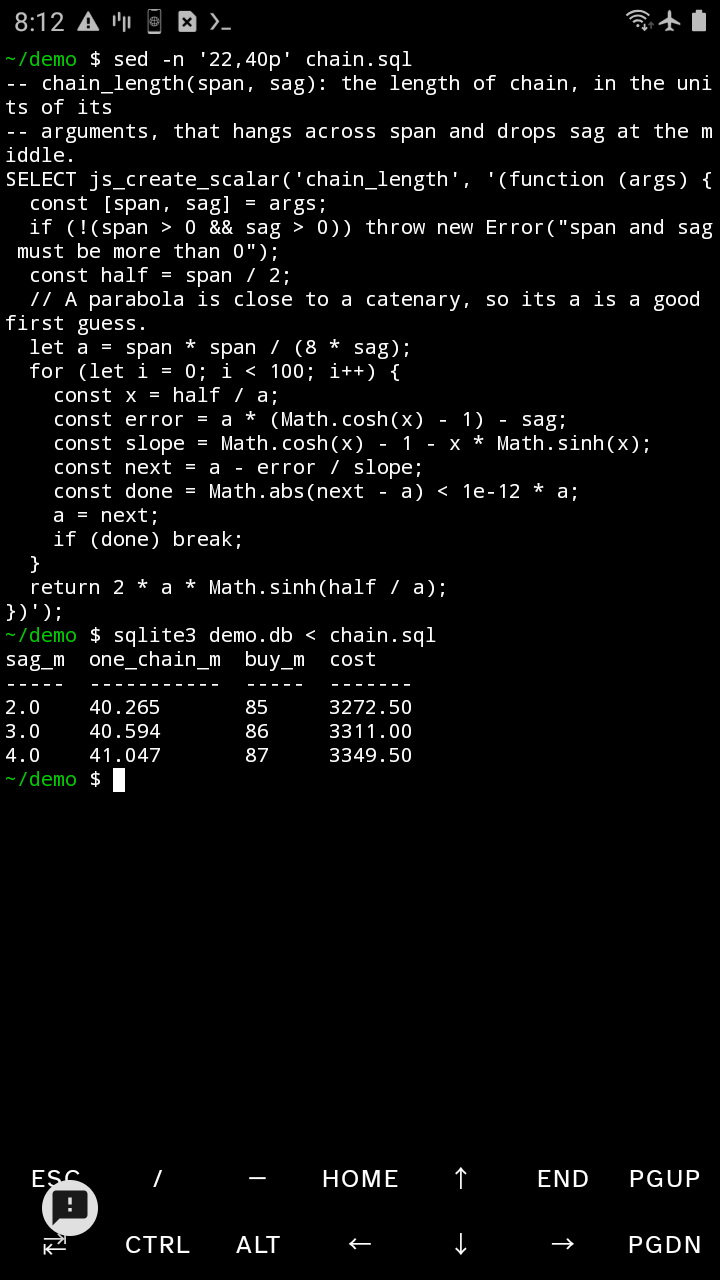
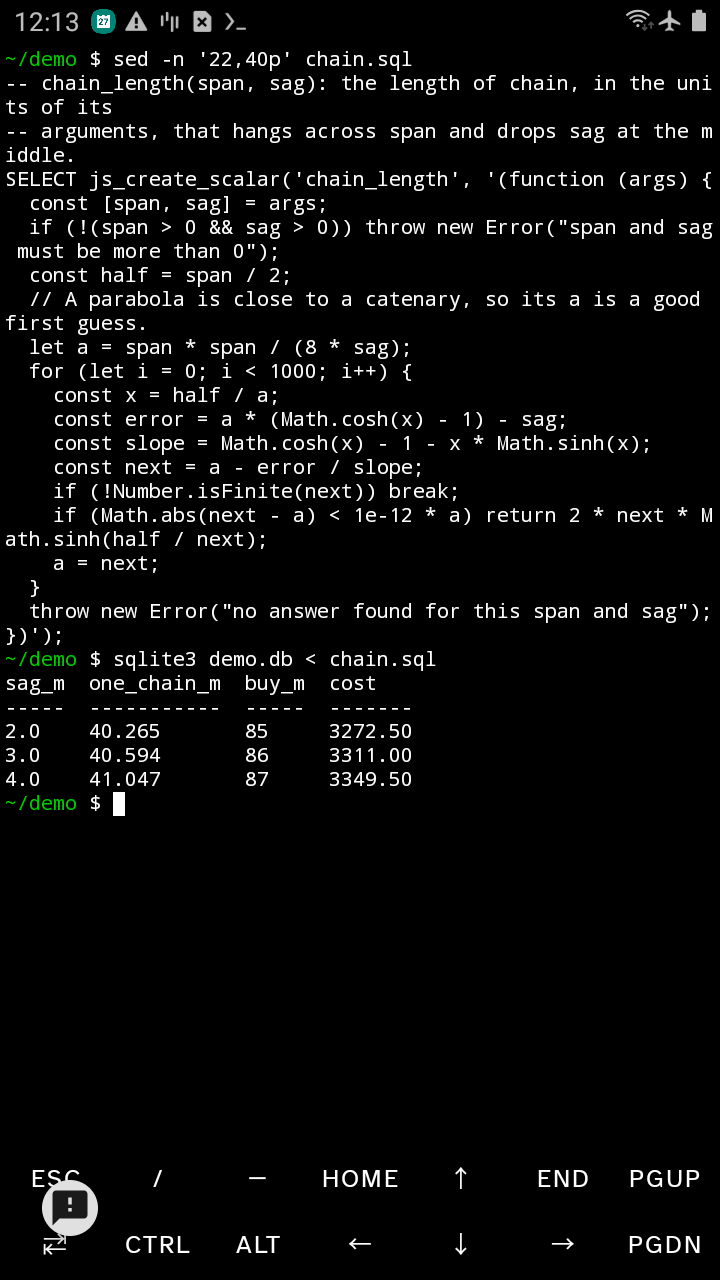
ADFA-7329: Fix CodeRabbit's ten comments on #186
Scripts:
- duplicates.sql: a NULL name gives an empty key, which the query skips;
  similarity counts letters, not UTF-16 units.
- chain.sql: Newton's method runs up to 1000 steps and reports an error
  when it finds no answer, instead of returning nonsense.
- drug-trial.sql: both tests refuse data without two groups.
- packing-lists.sql: a little slack for rounding at the weight limit;
  the trusted_schema comment says it blocks functions, not triggers.
- routes.sql: gc_point returns the place itself when both ends match.

App: the rule buttons stay off until a reload has finished and shown the
new fees, so reloads can't overlap and finish in the wrong order; a file
name that can't be read no longer reports a stored rule as not changed.

Page: the copy steps make ~/demo and copy the scripts into it, and the
trusted_schema note no longer calls it a general safety switch.

Checked on the Galaxy J7: all five scripts give the same outputs as
before (and CodeRabbit's edge cases now behave, checked on this PC);
the app builds, its buttons are off during a reload, and a changed,
looping and original rule behave as before. Scenes 2 and 4 refilmed.

Claude-Session: https://claude.ai/code/session_01Vh2DAXGyHbMzjSsi2zbrkw

diff --git a/docs/demos/javascript-in-sqlite-donyarmyengineering/index.html b/docs/demos/javascript-in-sqlite-donyarmyengineering/index.html
@@ -133,7 +133,8 @@ with the reference of every function, and <em>JavaScript in SQLite for apps</em>
 <h2 id="terminal">4. Jobs 1 to 5, in Terminal</h2>
 <p>Each job is one script, in this page's <code>terminal</code> folder. Copy that folder to the
 phone, for example into Download, then in Terminal:</p>
-<pre><code>cp -r /sdcard/Download/terminal ~/demo
+<pre><code>mkdir -p ~/demo
+cp /sdcard/Download/terminal/*.sql ~/demo/
 cd ~/demo
 sqlite3 demo.db &lt; duplicates.sql</code></pre>
 <p>Each script starts with <code>.load sqlite-js</code>, creates its functions and table, and
@@ -171,7 +172,7 @@ SELECT js_create_scalar('name_key', '(function (args) {
   // NFKD splits an accented letter into the letter and its accent, and turns
   // ligatures and full-width letters into plain ones. Only the accents of
   // Latin, Greek and Cyrillic letters (U+0300 to U+036F) are removed.
-  let s = String(args[0]).normalize("NFKD").replace(/[\u0300-\u036f]/g, "");
+  let s = (args[0] ?? "").toString().normalize("NFKD").replace(/[\u0300-\u036f]/g, "");
   // Letters with no accent to remove, written the way they are usually typed.
   const plain = { "ø": "o", "ł": "l", "ß": "ss", "æ": "ae", "œ": "oe", "đ": "d" };
   s = s.toLowerCase().replace(/[øłßæœđ]/g, (c) =&gt; plain[c]);
@@ -185,7 +186,7 @@ SELECT js_create_scalar('name_key', '(function (args) {
 -- must be added, removed or changed to turn one into the other (the edit
 -- distance), down to 0.
 SELECT js_create_scalar('similarity', '(function (args) {
-  const [a, b] = args;
+  const [a, b] = args.map((s) =&gt; Array.from(s)); // letters, not UTF-16 units
   const row = Array.from({ length: b.length + 1 }, (_, j) =&gt; j);
   for (let i = 1; i &lt;= a.length; i++) {
     let diagonal = row[0];
@@ -271,10 +272,10 @@ run with <code>sqlite3 packing.db &lt; packing-lists.sql</code></p>
 
 .load sqlite-js
 
--- The sqlite3 command turns trusted_schema off, so that a database you got
--- from someone else can't run code in its triggers. Then a trigger stored in
--- a database can't call functions like the one below. This database is your
--- own, so allow it.
+-- The sqlite3 command turns trusted_schema off, so that the triggers and
+-- views of a database you got from someone else can't call functions like
+-- the one below (plain SQL in them still runs). This database is your own,
+-- so allow it.
 -- Every later session that writes to the shipments table needs this line,
 -- .load sqlite-js and SELECT js_init_table(1); see the end of this file.
 PRAGMA trusted_schema = ON;
@@ -322,7 +323,7 @@ SELECT js_create_scalar('check_packing_list', '(function (args) {
     }
     total += item.qty * item.kg;
   });
-  if (total &gt; limitKg) {
+  if (total &gt; limitKg * (1 + 1e-9)) { // a little slack for rounding
     throw new Error(`The load is ${total.toFixed(1)} kg, over the limit of ${limitKg} kg.`);
   }
   return 1;
@@ -410,8 +411,9 @@ phone:</p>
     <code>The packing list has no items.</code></td></tr>
 </table>
 <p class="note">The <code>sqlite3</code> command turns <code>trusted_schema</code> off when it
-opens a database, so that a database you got from someone else can't run code in its triggers or
-views. And <code>js_init_table(1)</code> runs the code stored in the database's
+opens a database, so that the triggers and views of a database you got from someone else can't
+call functions like these. It is not a general safety switch: plain SQL in those triggers still
+runs. And <code>js_init_table(1)</code> runs the code stored in the database's
 <code>js_functions</code> table. Do both only for databases you made yourself. In an app, the
 database is the app's own, and it opens it with
 <code>SqliteJs.ENTRY_POINT_FOR_TRUSTED_DATABASE</code>; see
@@ -456,16 +458,16 @@ SELECT js_create_scalar('chain_length', '(function (args) {
   const half = span / 2;
   // A parabola is close to a catenary, so its a is a good first guess.
   let a = span * span / (8 * sag);
-  for (let i = 0; i &lt; 100; i++) {
+  for (let i = 0; i &lt; 1000; i++) {
     const x = half / a;
     const error = a * (Math.cosh(x) - 1) - sag;
     const slope = Math.cosh(x) - 1 - x * Math.sinh(x);
     const next = a - error / slope;
-    const done = Math.abs(next - a) &lt; 1e-12 * a;
+    if (!Number.isFinite(next)) break;
+    if (Math.abs(next - a) &lt; 1e-12 * a) return 2 * next * Math.sinh(half / next);
     a = next;
-    if (done) break;
   }
-  return 2 * a * Math.sinh(half / a);
+  throw new Error("no answer found for this span and sag");
 })');
 
 .output stdout
@@ -551,6 +553,9 @@ SELECT js_create_aggregate('welch_test',
       const variance = xs.reduce((sum, x) =&gt; sum + (x - mean) ** 2, 0) / (n - 1);
       return { n, mean, se2: variance / n };
     };
+    if (groups.drug.length &lt; 2 || groups.placebo.length &lt; 2) {
+      throw new Error("each group needs at least 2 patients");
+    }
     const d = describe(groups.drug);
     const p = describe(groups.placebo);
     const se2 = d.se2 + p.se2;
@@ -632,6 +637,9 @@ SELECT js_create_aggregate('permutation_p',
       });
       return drug / nDrug - placebo / nPlacebo;
     };
+    if (!isDrug.includes(true) || !isDrug.includes(false)) {
+      throw new Error("both groups need patients");
+    }
     const observed = Math.abs(difference(isDrug));
     const labels = isDrug.slice();
     let asLarge = 0;
@@ -697,7 +705,7 @@ shuffled_p
 <p>p is 0.023: if the drug did nothing, a difference this large, either way, would turn up by
 chance about 2 times in 100. Shuffling the labels 10,000 times agrees. SciPy's Welch t-test gives
 the same t, degrees of freedom and p for this data. On the phone used here, a Galaxy J7 from 2018,
-this script took 6.1 and 6.4 seconds in two runs, nearly all of it the 10,000 shuffles; each
+this script took 6.1 to 6.4 seconds in three runs, nearly all of it the 10,000 shuffles; each
 of the other scripts took less than 140 ms.</p>
 <figure>
   <img src="screenshots/5-drug-trial.png" alt="Terminal showing the group averages, the t-test and the shuffled p-value">
@@ -764,6 +772,8 @@ SELECT js_create_scalar('gc_point', '(function (args) {
   const p = toXyz(lat1, lon1);
   const q = toXyz(lat2, lon2);
   const angle = Math.acos(Math.min(1, p[0] * q[0] + p[1] * q[1] + p[2] * q[2]));
+  // The same place twice: no route to follow.
+  if (angle &lt; 1e-12) return `${args[0].toFixed(1)}, ${args[1].toFixed(1)}`;
   const a = Math.sin((1 - f) * angle) / Math.sin(angle);
   const b = Math.sin(f * angle) / Math.sin(angle);
   const [x, y, z] = [0, 1, 2].map((i) =&gt; a * p[i] + b * q[i]);
@@ -870,6 +880,7 @@ it, and tap <strong>Reload rule</strong> in the app.</p>
   <li>Closes the app's database connections, stores the rule in the database's
     <code>js_functions</code> table, and opens the database again. A connection keeps the version
     of a function it loaded when it opened, so the new rule needs new connections.</li>
+  <li>Shows the new fees. The rule buttons are off until then, so two reloads can't overlap.</li>
 </ol>
 <figure>
   <img src="screenshots/10-rule-refused.png" alt="The app saying: The rule was not changed. The rule ran for more than 2 s, so it was stopped. Does it loop forever?">
@@ -1191,31 +1202,31 @@ class MainActivity : AppCompatActivity() {
         if (prefs.getString(KEY_RULE_FILE, null) == null) {
             binding.ruleStatus.setText(R.string.choose_first)
         }
-        showFees()
+        lifecycleScope.launch { showFees() }
     }
 
     // Lists the orders with the fee from the rule stored in the database.
-    private fun showFees() {
-        binding.results.setText(R.string.working)
-        lifecycleScope.launch {
-            try {
-                val rows = withContext(Dispatchers.IO) {
-                    val orders = OrderDatabase.get(applicationContext).orders()
-                    if (orders.count() == 0) orders.insert(SAMPLE_ORDERS)
-                    OrderDatabase.withTimeLimit { orders.withFees() }
-                }
-                _binding?.results?.text = table(rows)
-            } catch (e: CancellationException) {
-                throw e
-            } catch (e: Exception) {
-                val noRule = e.message.orEmpty().contains("no such function")
-                _binding?.results?.text =
-                    if (noRule) getString(R.string.no_rule) else getString(R.string.error, e.message)
+    private suspend fun showFees() {
+        _binding?.results?.setText(R.string.working)
+        try {
+            val rows = withContext(Dispatchers.IO) {
+                val orders = OrderDatabase.get(applicationContext).orders()
+                if (orders.count() == 0) orders.insert(SAMPLE_ORDERS)
+                OrderDatabase.withTimeLimit { orders.withFees() }
             }
+            _binding?.results?.text = table(rows)
+        } catch (e: CancellationException) {
+            throw e
+        } catch (e: Exception) {
+            val noRule = e.message.orEmpty().contains("no such function")
+            _binding?.results?.text =
+                if (noRule) getString(R.string.no_rule) else getString(R.string.error, e.message)
         }
     }
 
-    // Reads the rule file again, and replaces the rule in the database if it works.
+    // Reads the rule file again, and replaces the rule in the database if it works. The rule
+    // buttons stay off until the new fees are shown, so two reloads can't overlap and finish in
+    // the wrong order.
     private fun reloadRule() {
         val file = prefs.getString(KEY_RULE_FILE, null)?.let(Uri::parse)
         if (file == null) {
@@ -1223,23 +1234,35 @@ class MainActivity : AppCompatActivity() {
             return
         }
         binding.ruleStatus.setText(R.string.working)
+        setRuleButtonsEnabled(false)
         lifecycleScope.launch {
-            val started = SystemClock.elapsedRealtime()
             try {
-                val code = withContext(Dispatchers.IO) {
-                    checkNotNull(contentResolver.openInputStream(file)) { "Can't open $file" }
-                        .bufferedReader().use { it.readText() }
+                val started = SystemClock.elapsedRealtime()
+                try {
+                    val code = withContext(Dispatchers.IO) {
+                        checkNotNull(contentResolver.openInputStream(file)) { "Can't open $file" }
+                            .bufferedReader().use { it.readText() }
+                    }
+                    OrderDatabase.replaceRule(applicationContext, code, SAMPLE_ORDERS)
+                } catch (e: CancellationException) {
+                    throw e
+                } catch (e: Exception) {
+                    _binding?.ruleStatus?.text = getString(R.string.rule_rejected, e.message)
+                    return@launch
                 }
-                OrderDatabase.replaceRule(applicationContext, code, SAMPLE_ORDERS)
+                // The rule is stored now, so nothing from here on reports it as not changed.
                 val ms = SystemClock.elapsedRealtime() - started
                 _binding?.ruleStatus?.text = getString(R.string.rule_loaded, displayName(file), ms)
                 showFees()
-            } catch (e: CancellationException) {
-                throw e
-            } catch (e: Exception) {
-                _binding?.ruleStatus?.text = getString(R.string.rule_rejected, e.message)
+            } finally {
+                setRuleButtonsEnabled(true)
             }
         }
+    }
+
+    private fun setRuleButtonsEnabled(enabled: Boolean) {
+        _binding?.reloadRule?.isEnabled = enabled
+        _binding?.chooseRule?.isEnabled = enabled
     }
 
     // A fee the rule gave no number for shows as "?", not as 0.00.
@@ -1252,10 +1275,12 @@ class MainActivity : AppCompatActivity() {
             )
         }
 
+    // The file's name, or the last part of its address when the name can't be read.
     private fun displayName(file: Uri): String =
-        contentResolver.query(file, arrayOf(OpenableColumns.DISPLAY_NAME), null, null, null)
-            ?.use { c -&gt; if (c.moveToFirst()) c.getString(0) else null }
-            ?: file.lastPathSegment.orEmpty()
+        runCatching {
+            contentResolver.query(file, arrayOf(OpenableColumns.DISPLAY_NAME), null, null, null)
+                ?.use { c -&gt; if (c.moveToFirst()) c.getString(0) else null }
+        }.getOrNull() ?: file.lastPathSegment.orEmpty()
 
     private fun showNotices() {
         val text = assets.open("NOTICES.txt").bufferedReader().use { it.readText() }
@@ -1439,7 +1464,7 @@ policy, for example, has rules about code that an app loads after it is installe
   <tr><td>Code on the Go</td><td>C-d-1124-2145, with the JavaScript in SQLite template</td></tr>
   <tr><td>Terminal packages</td><td>sqlite 3.51.2, sqlite-js 1.4.4 (quickjs-ng 0.12.1)</td></tr>
   <tr><td>Scripts</td><td>The same results on the phone and on a Linux computer; on the phone,
-    the drug trial took 6.1 and 6.4 s in two runs, the others under 140 ms</td></tr>
+    the drug trial took 6.1 to 6.4 s in three runs, the others under 140 ms</td></tr>
   <tr><td>Reload rule</td><td>72 to 265 ms in all runs: 216 ms in the video, just after the
     app started</td></tr>
   <tr><td>First build of the app</td><td>9 min 16 s</td></tr>

diff --git a/docs/demos/javascript-in-sqlite-donyarmyengineering/app/app/src/main/java/com/donyarmyengineering/deliveryfees/MainActivity.kt b/docs/demos/javascript-in-sqlite-donyarmyengineering/app/app/src/main/java/com/donyarmyengineering/deliveryfees/MainActivity.kt
@@ -56,31 +56,31 @@ class MainActivity : AppCompatActivity() {
         if (prefs.getString(KEY_RULE_FILE, null) == null) {
             binding.ruleStatus.setText(R.string.choose_first)
         }
-        showFees()
+        lifecycleScope.launch { showFees() }
     }
 
     // Lists the orders with the fee from the rule stored in the database.
-    private fun showFees() {
-        binding.results.setText(R.string.working)
-        lifecycleScope.launch {
-            try {
-                val rows = withContext(Dispatchers.IO) {
-                    val orders = OrderDatabase.get(applicationContext).orders()
-                    if (orders.count() == 0) orders.insert(SAMPLE_ORDERS)
-                    OrderDatabase.withTimeLimit { orders.withFees() }
-                }
-                _binding?.results?.text = table(rows)
-            } catch (e: CancellationException) {
-                throw e
-            } catch (e: Exception) {
-                val noRule = e.message.orEmpty().contains("no such function")
-                _binding?.results?.text =
-                    if (noRule) getString(R.string.no_rule) else getString(R.string.error, e.message)
+    private suspend fun showFees() {
+        _binding?.results?.setText(R.string.working)
+        try {
+            val rows = withContext(Dispatchers.IO) {
+                val orders = OrderDatabase.get(applicationContext).orders()
+                if (orders.count() == 0) orders.insert(SAMPLE_ORDERS)
+                OrderDatabase.withTimeLimit { orders.withFees() }
             }
+            _binding?.results?.text = table(rows)
+        } catch (e: CancellationException) {
+            throw e
+        } catch (e: Exception) {
+            val noRule = e.message.orEmpty().contains("no such function")
+            _binding?.results?.text =
+                if (noRule) getString(R.string.no_rule) else getString(R.string.error, e.message)
         }
     }
 
-    // Reads the rule file again, and replaces the rule in the database if it works.
+    // Reads the rule file again, and replaces the rule in the database if it works. The rule
+    // buttons stay off until the new fees are shown, so two reloads can't overlap and finish in
+    // the wrong order.
     private fun reloadRule() {
         val file = prefs.getString(KEY_RULE_FILE, null)?.let(Uri::parse)
         if (file == null) {
@@ -88,23 +88,35 @@ class MainActivity : AppCompatActivity() {
             return
         }
         binding.ruleStatus.setText(R.string.working)
+        setRuleButtonsEnabled(false)
         lifecycleScope.launch {
-            val started = SystemClock.elapsedRealtime()
             try {
-                val code = withContext(Dispatchers.IO) {
-                    checkNotNull(contentResolver.openInputStream(file)) { "Can't open $file" }
-                        .bufferedReader().use { it.readText() }
+                val started = SystemClock.elapsedRealtime()
+                try {
+                    val code = withContext(Dispatchers.IO) {
+                        checkNotNull(contentResolver.openInputStream(file)) { "Can't open $file" }
+                            .bufferedReader().use { it.readText() }
+                    }
+                    OrderDatabase.replaceRule(applicationContext, code, SAMPLE_ORDERS)
+                } catch (e: CancellationException) {
+                    throw e
+                } catch (e: Exception) {
+                    _binding?.ruleStatus?.text = getString(R.string.rule_rejected, e.message)
+                    return@launch
                 }
-                OrderDatabase.replaceRule(applicationContext, code, SAMPLE_ORDERS)
+                // The rule is stored now, so nothing from here on reports it as not changed.
                 val ms = SystemClock.elapsedRealtime() - started
                 _binding?.ruleStatus?.text = getString(R.string.rule_loaded, displayName(file), ms)
                 showFees()
-            } catch (e: CancellationException) {
-                throw e
-            } catch (e: Exception) {
-                _binding?.ruleStatus?.text = getString(R.string.rule_rejected, e.message)
+            } finally {
+                setRuleButtonsEnabled(true)
             }
         }
+    }
+
+    private fun setRuleButtonsEnabled(enabled: Boolean) {
+        _binding?.reloadRule?.isEnabled = enabled
+        _binding?.chooseRule?.isEnabled = enabled
     }
 
     // A fee the rule gave no number for shows as "?", not as 0.00.
@@ -117,10 +129,12 @@ class MainActivity : AppCompatActivity() {
             )
         }
 
+    // The file's name, or the last part of its address when the name can't be read.
     private fun displayName(file: Uri): String =
-        contentResolver.query(file, arrayOf(OpenableColumns.DISPLAY_NAME), null, null, null)
-            ?.use { c -> if (c.moveToFirst()) c.getString(0) else null }
-            ?: file.lastPathSegment.orEmpty()
+        runCatching {
+            contentResolver.query(file, arrayOf(OpenableColumns.DISPLAY_NAME), null, null, null)
+                ?.use { c -> if (c.moveToFirst()) c.getString(0) else null }
+        }.getOrNull() ?: file.lastPathSegment.orEmpty()
 
     private fun showNotices() {
         val text = assets.open("NOTICES.txt").bufferedReader().use { it.readText() }
